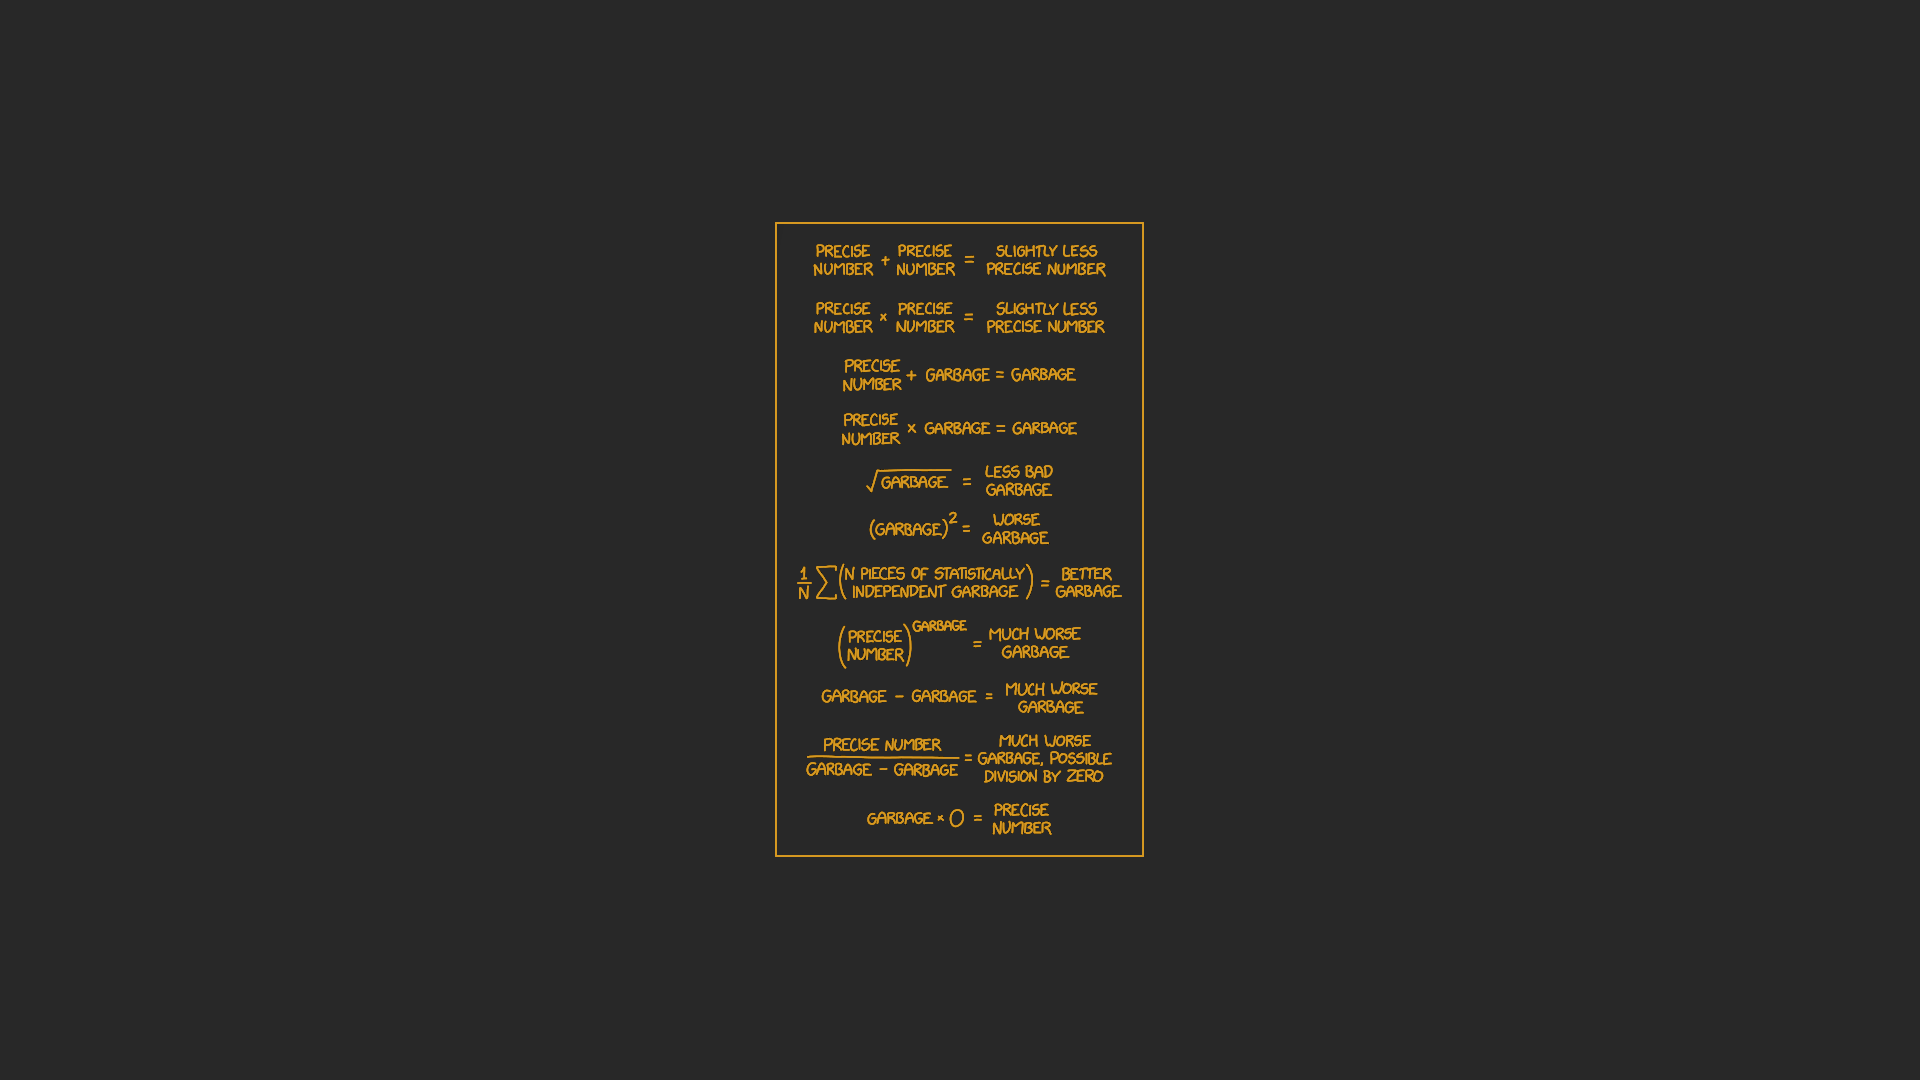
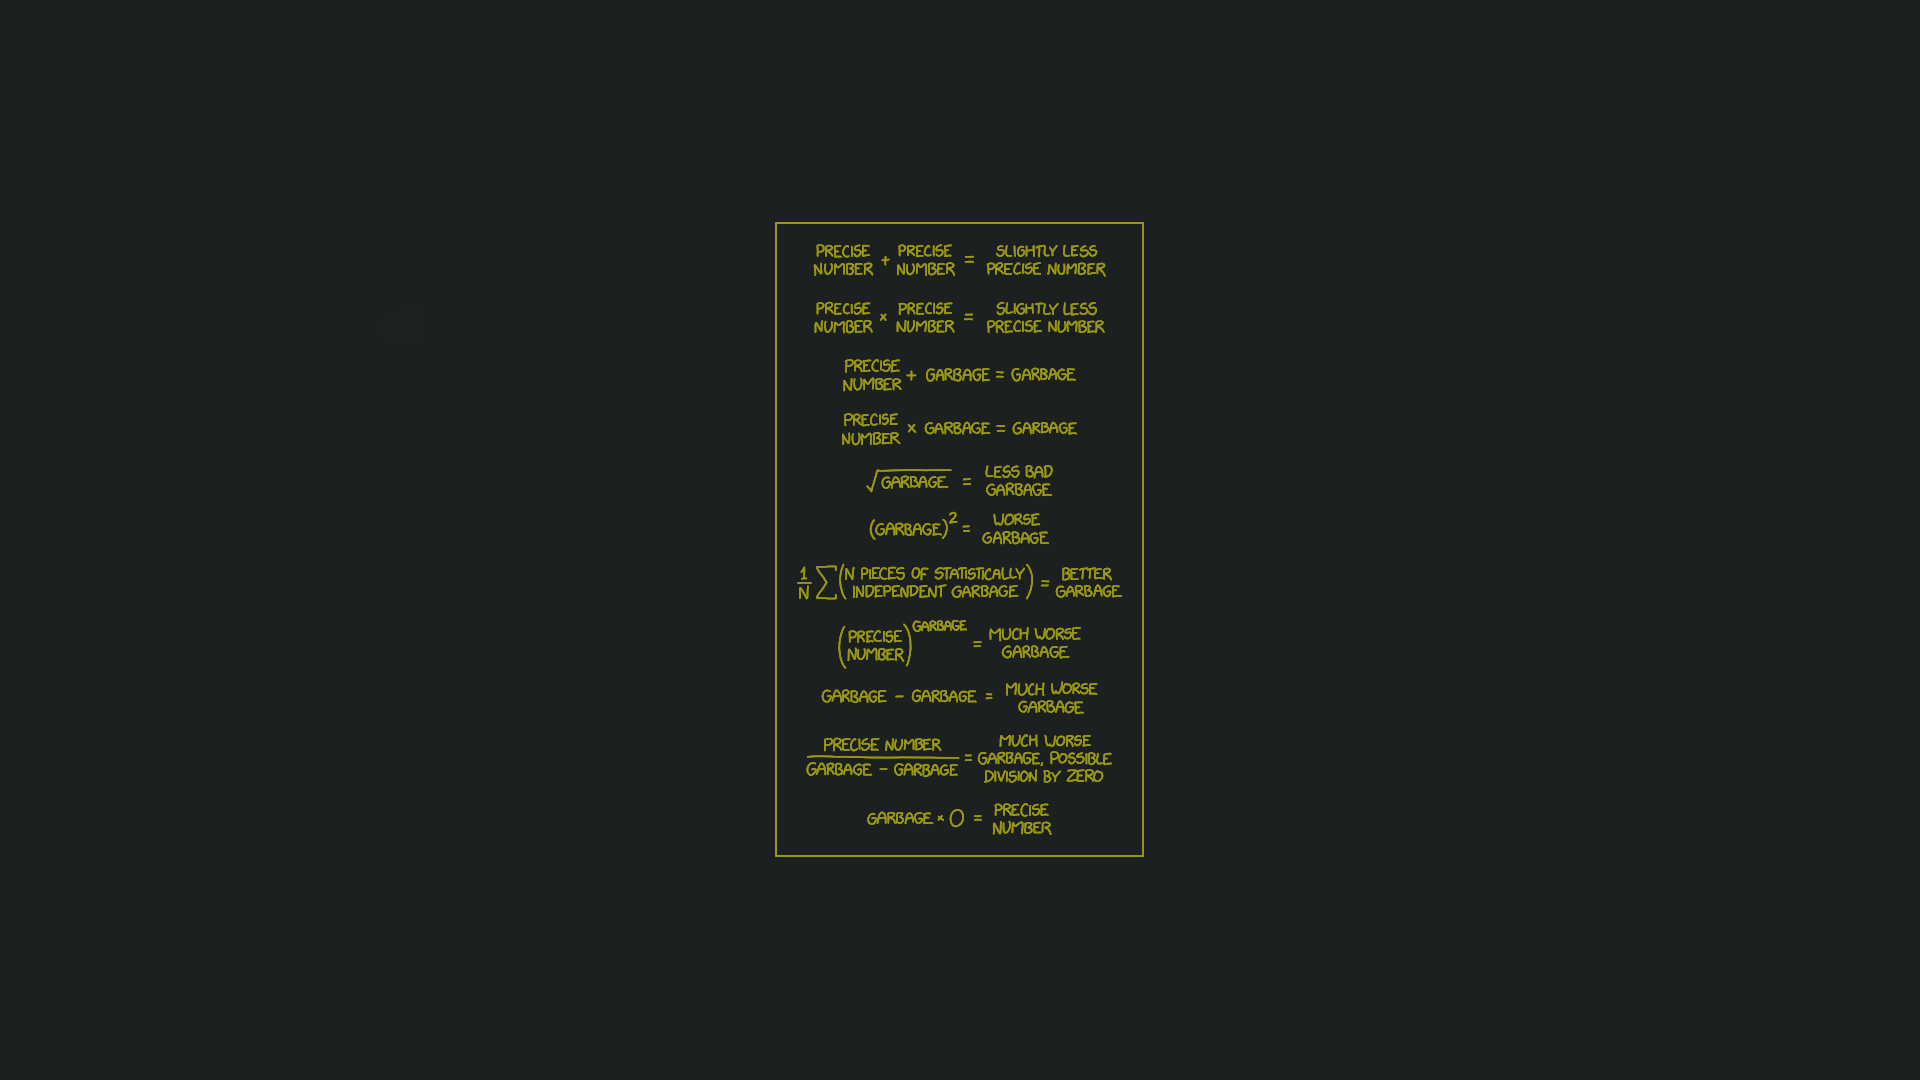
wallpaprs, green!

Changed region(s): [[0.4062, 0.2139, 0.5938, 0.7944]]

diff --git a/wallpapers/README.md b/wallpapers/README.md
@@ -1,5 +1,13 @@
 # Wallpapers
 
-The wallpapers are some of my favourite strips from the popular webcomic [xkcd](https://xkcd.com).  
+The wallpapers are some of my favourite strips from the popular webcomic [xkcd](https://xkcd.com).
 
 They have been recoloured by me in GIMP to match the [gruvbox theme](https://github.com/morhetz/gruvbox).
+
+Relevant comics are:
+
+* [campfire](https://xkcd.com/742/)
+* [garbage math](https://xkcd.com/2295/)
+* [git commit](https://xkcd.com/1296/)
+* [linux user at best buy](https://xkcd.com/272/)
+* [slippery slope](https://xkcd.com/1332/)
